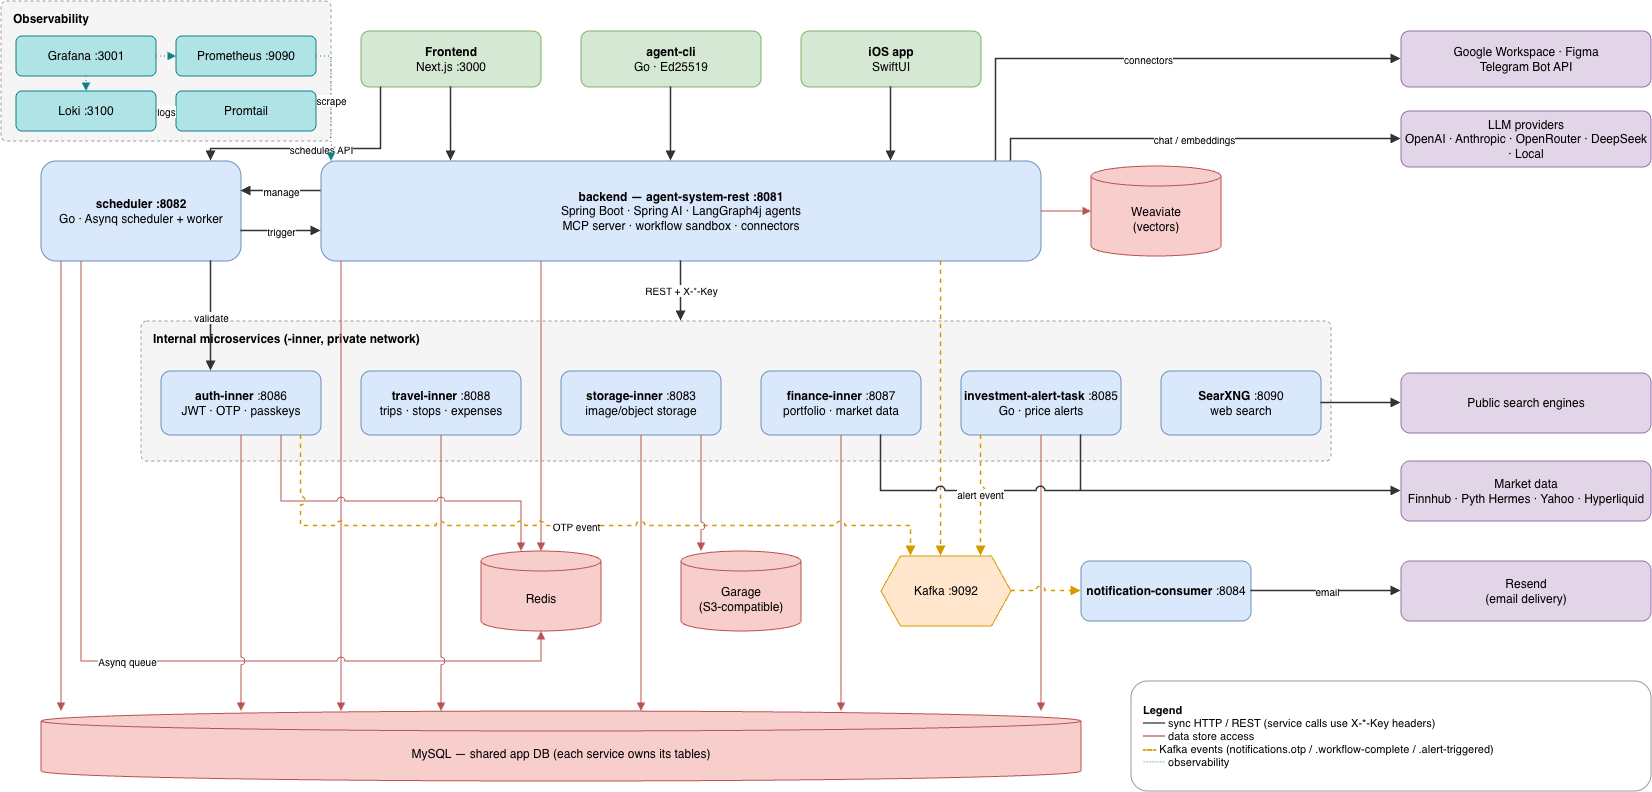
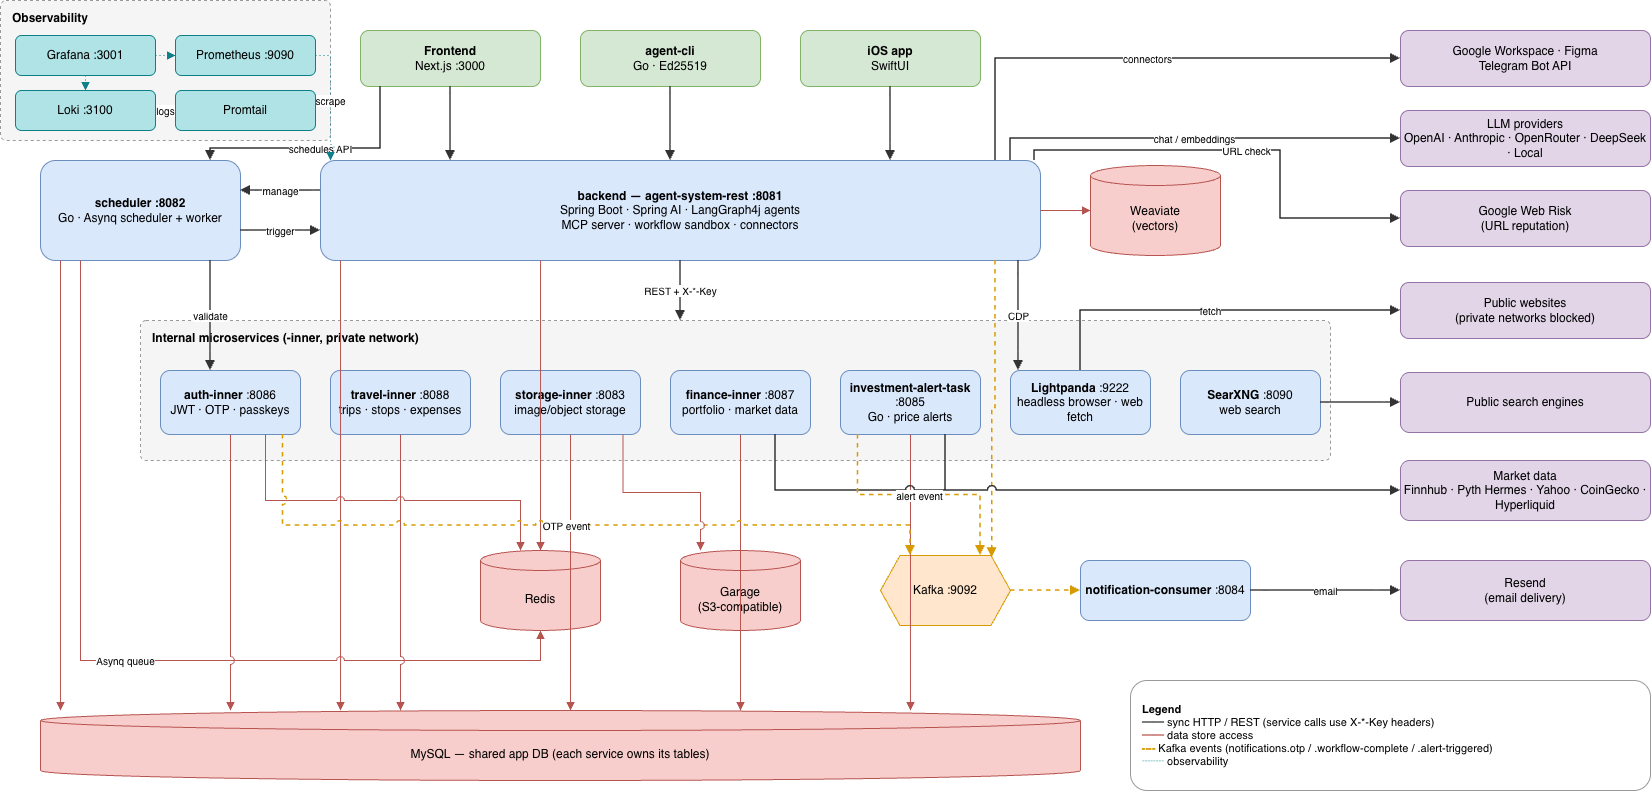
update: architecture graph & readme

diff --git a/README.md b/README.md
@@ -18,7 +18,7 @@
 | Auth          | JJWT · WebAuthn (passkeys) · OTP email via Resend · Ed25519 CLI keys                                    |
 | Data          | MySQL 8 · Weaviate (vectors) · Redis 7 (Lettuce, Redisson, Bucket4j) · Garage (S3-compatible storage)   |
 | Messaging     | Apache Kafka (KRaft, single node)                                                                          |
-| Web search    | SearXNG (self-hosted)                                                                                      |
+| Web search    | SearXNG (self-hosted) · Lightpanda headless browser (CDP) · Google Web Risk                             |
 | Observability | Prometheus · Grafana · Loki · Promtail                                                                  |
 | Deployment    | Docker Compose · GitHub Actions (CLI cross-compile releases)                                              |
 
